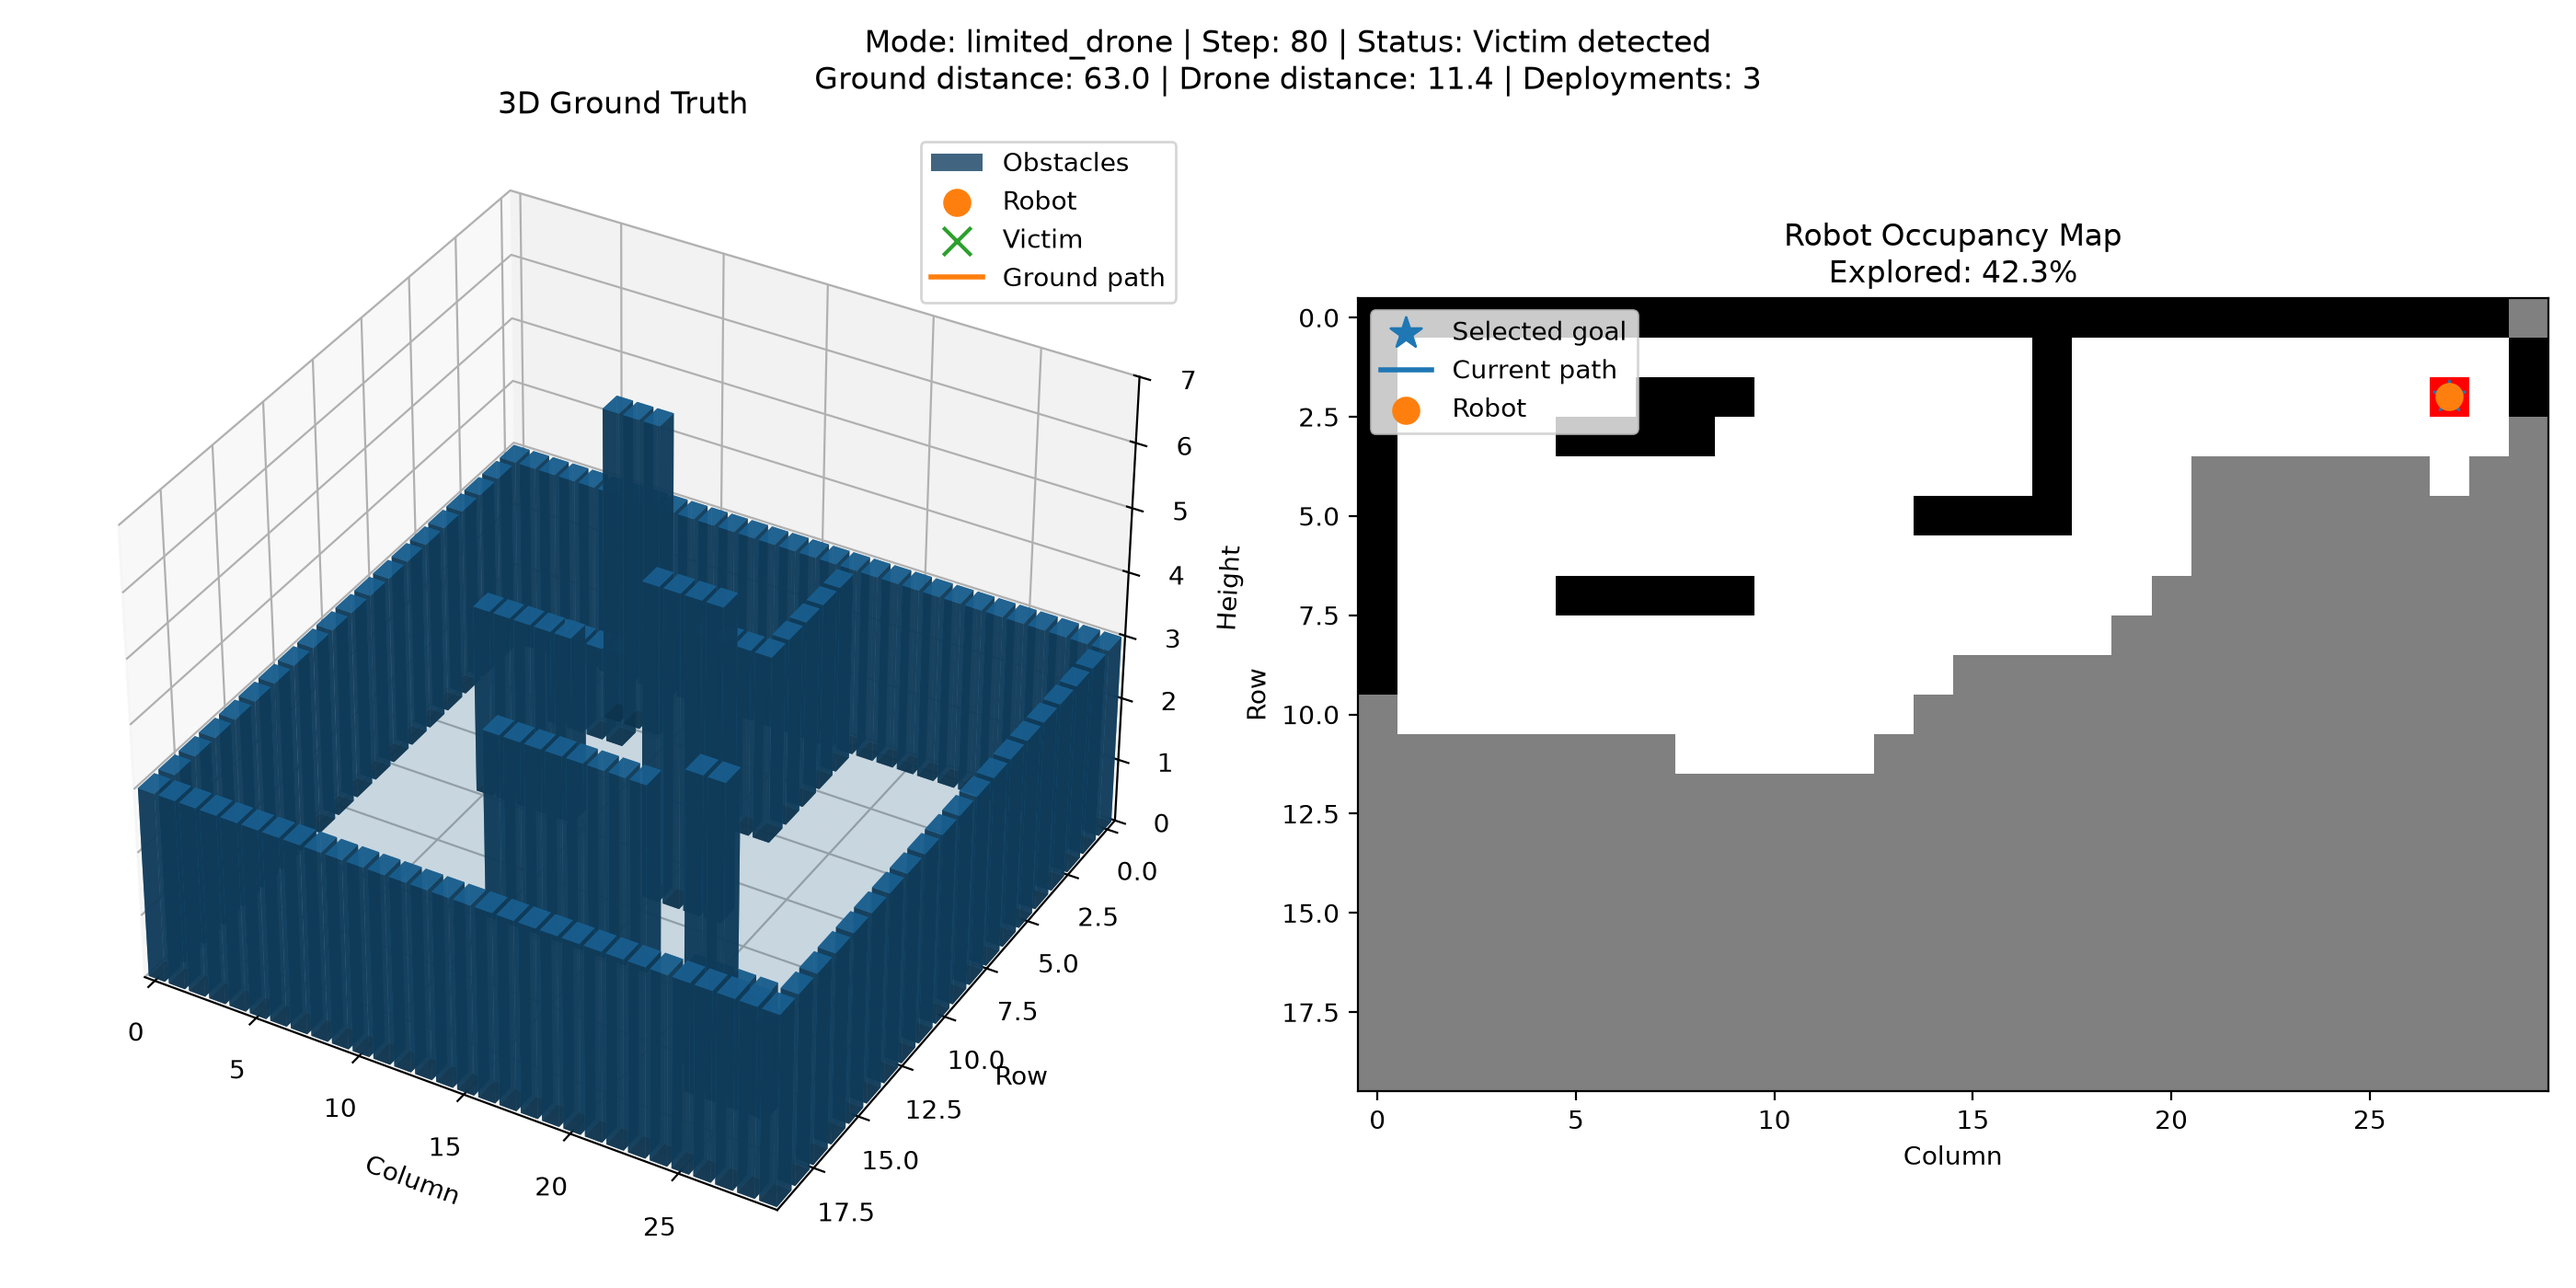
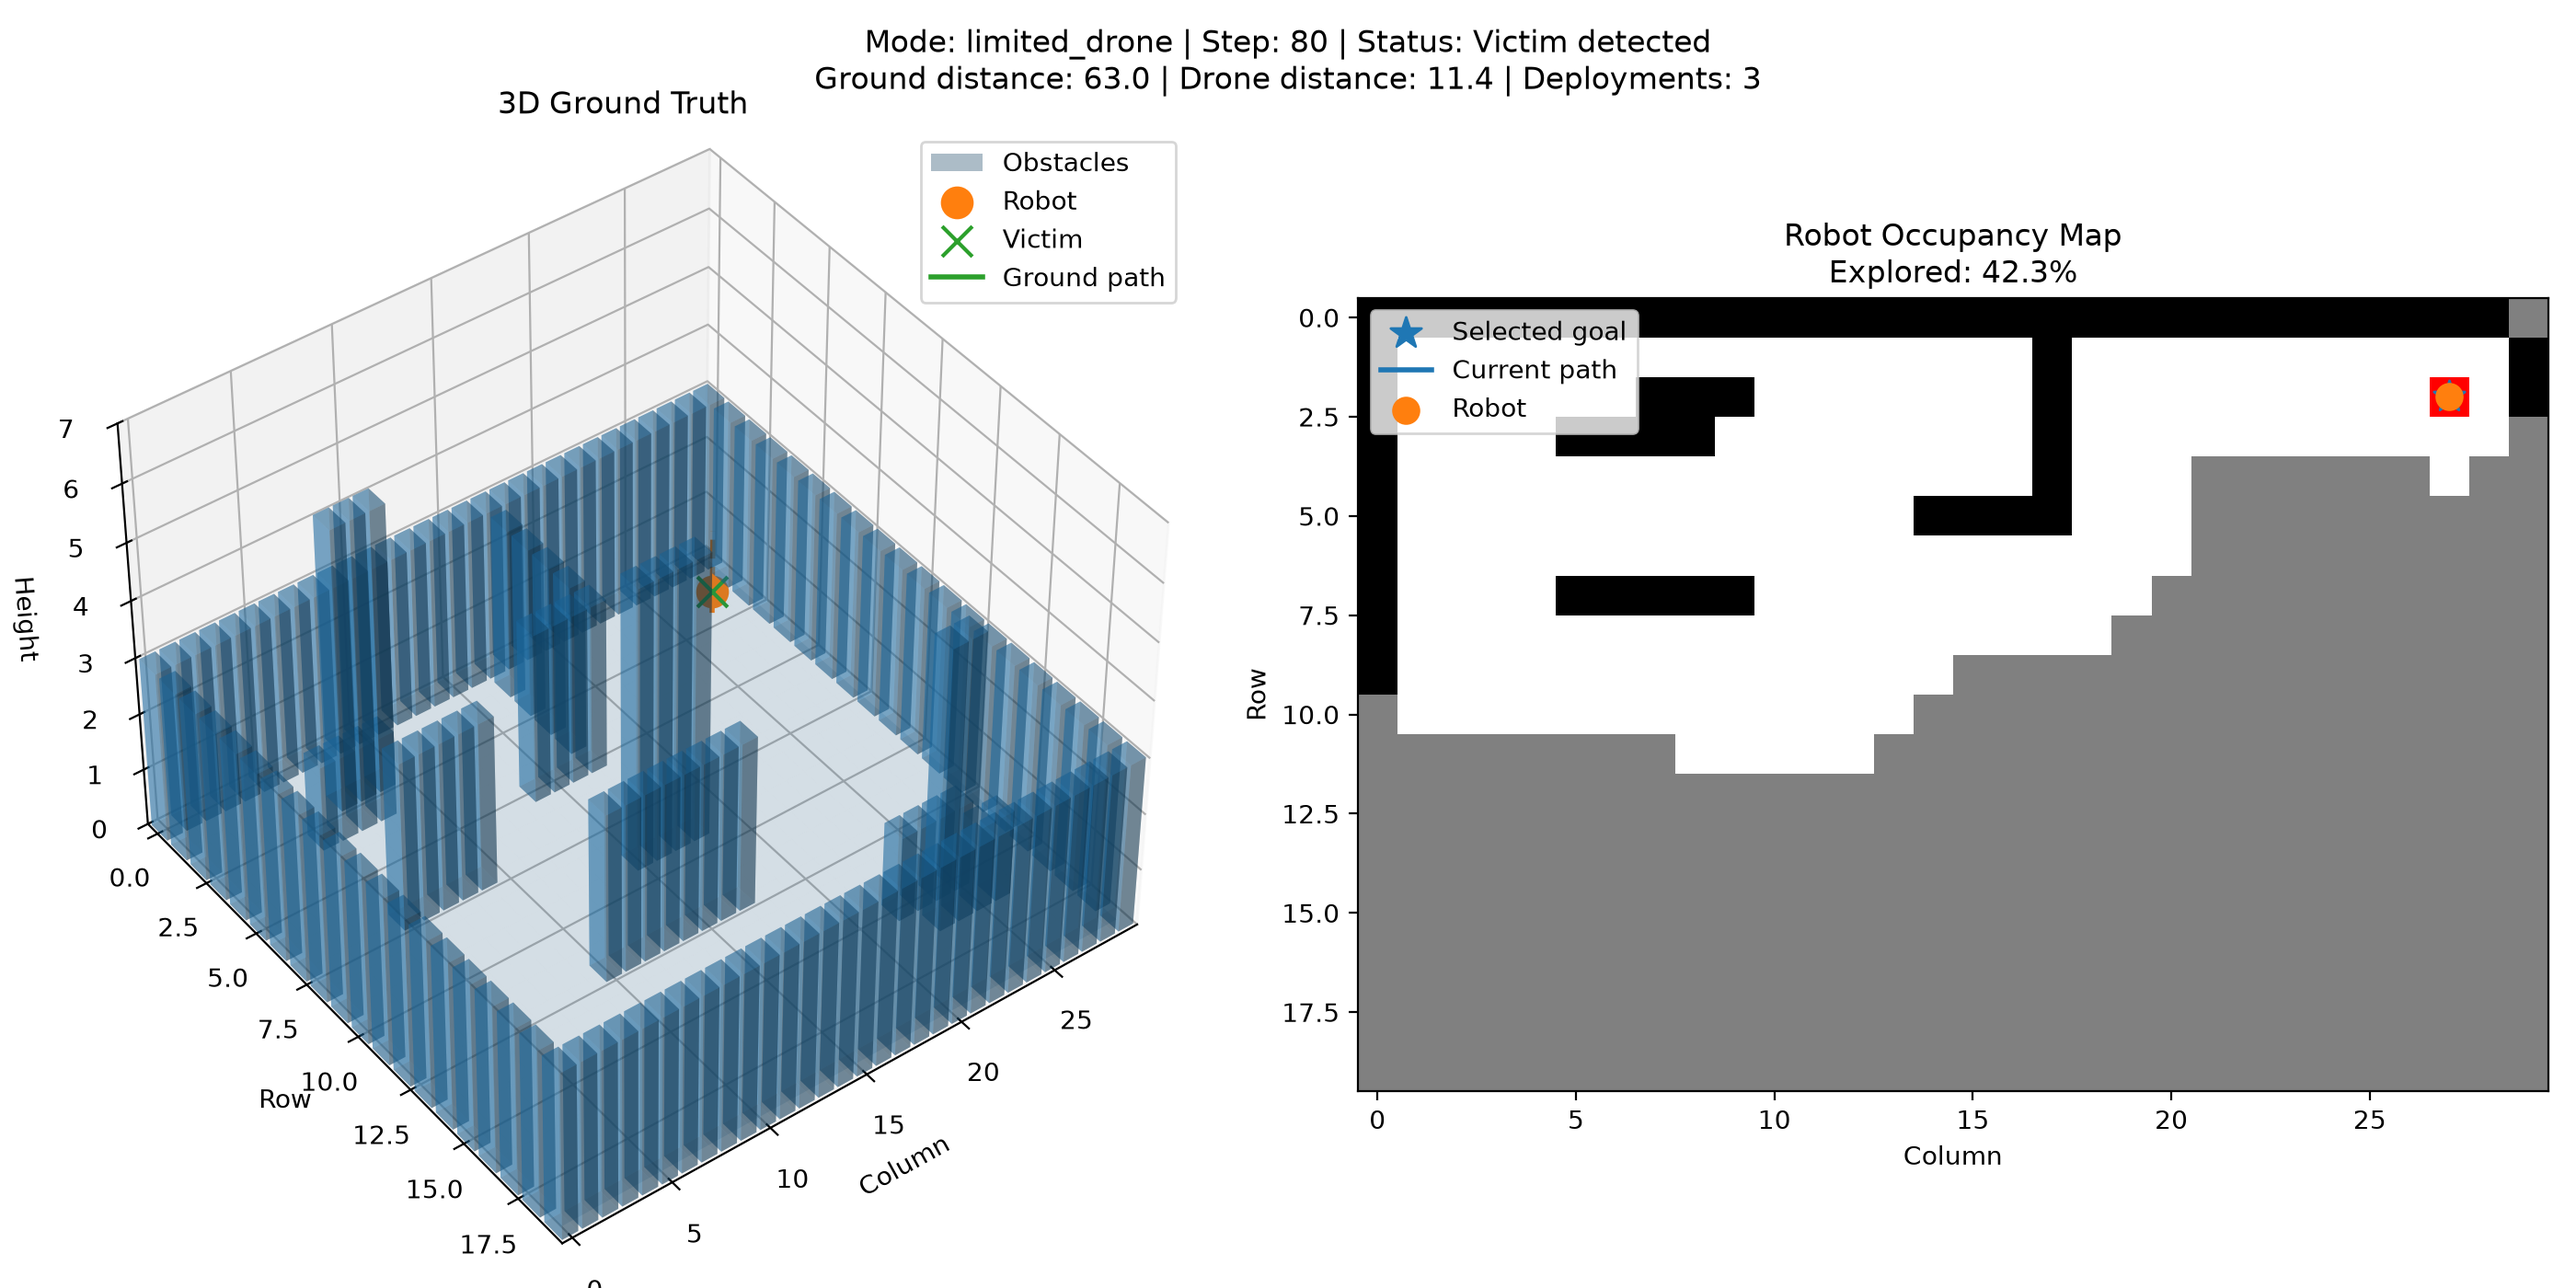
better 3d viz, experimenting

Changed region(s): [[0.0, 0.1536, 0.4661, 0.9829], [0.3418, 0.1229, 0.4039, 0.1536]]

diff --git a/main.py b/main.py
@@ -1,5 +1,7 @@
 from __future__ import annotations
+
 import os
+
 import matplotlib.pyplot as plt
 import numpy as np
 from matplotlib.colors import ListedColormap
@@ -19,6 +21,7 @@ from config import (
     LIMITED_DRONE,
     DRONE_CRUISE_ALTITUDE
 )
+
 from environment import Environment
 from exploration import find_frontiers, choose_frontier
 from mapping import OccupancyMap
@@ -28,19 +31,28 @@ from drone import Drone
 
 
 def visualize(environment, occupancy_map, robot, drone, path, frontiers, selected_goal, step_number, victim_found):
+    current_azimuth = None
+    current_elevation = None
+
+    if len(plt.gcf().axes) > 0:
+        old_axis = plt.gcf().axes[0]
+
+        if hasattr(old_axis, "azim"):
+            current_azimuth = old_axis.azim
+            current_elevation = old_axis.elev
+
     plt.clf()
 
     robot_row, robot_col = robot.position
+    rows, cols = environment.grid.shape
 
     # ground truth
     true_world_plot = plt.subplot(1, 2, 1, projection="3d")
 
-    rows, cols = environment.grid.shape
-
     floor_x, floor_y = np.meshgrid(np.arange(cols), np.arange(rows))
     floor_z = np.zeros_like(floor_x, dtype=float)
 
-    true_world_plot.plot_surface(floor_x, floor_y, floor_z, alpha=0.2)
+    true_world_plot.plot_surface(floor_x, floor_y, floor_z, alpha=0.15)
 
     obstacle_rows, obstacle_cols = np.where(environment.height_map > 0)
 
@@ -54,17 +66,26 @@ def visualize(environment, occupancy_map, robot, drone, path, frontiers, selecte
             0.8,
             0.8,
             obstacle_heights,
-            alpha=0.8,
+            alpha=0.35,
             label="Obstacles"
         )
 
     true_world_plot.scatter(
         robot_col,
         robot_row,
-        0.2,
+        0.4,
         marker="o",
-        s=100,
+        s=140,
+        depthshade=False,
         label="Robot"
+    )
+
+    true_world_plot.plot(
+        [robot_col, robot_col],
+        [robot_row, robot_row],
+        [0, 1.5],
+        linestyle="--",
+        linewidth=2
     )
 
     victim_row, victim_col = environment.victim_position
@@ -72,9 +93,10 @@ def visualize(environment, occupancy_map, robot, drone, path, frontiers, selecte
     true_world_plot.scatter(
         victim_col,
         victim_row,
-        0.2,
+        0.4,
         marker="x",
-        s=120,
+        s=140,
+        depthshade=False,
         label="Victim"
     )
 
@@ -86,7 +108,8 @@ def visualize(environment, occupancy_map, robot, drone, path, frontiers, selecte
             drone_row,
             drone_altitude,
             marker="^",
-            s=120,
+            s=140,
+            depthshade=False,
             label=f"Drone z={drone_altitude:.1f}"
         )
 
@@ -105,6 +128,7 @@ def visualize(environment, occupancy_map, robot, drone, path, frontiers, selecte
 
         if len(drone.forward_obstacles) > 0:
             obstacle_array = np.array(drone.forward_obstacles)
+
             detection_heights = environment.height_map[
                 obstacle_array[:, 0],
                 obstacle_array[:, 1]
@@ -113,9 +137,10 @@ def visualize(environment, occupancy_map, robot, drone, path, frontiers, selecte
             true_world_plot.scatter(
                 obstacle_array[:, 1],
                 obstacle_array[:, 0],
-                detection_heights,
+                detection_heights + 0.2,
                 marker="s",
-                s=70,
+                s=90,
+                depthshade=False,
                 label="Forward detections"
             )
 
@@ -143,7 +168,12 @@ def visualize(environment, occupancy_map, robot, drone, path, frontiers, selecte
     true_world_plot.set_ylabel("Row")
     true_world_plot.set_zlabel("Height")
     true_world_plot.set_title("3D Ground Truth")
-    true_world_plot.view_init(elev=35, azim=-60)
+
+    if current_azimuth is not None and current_elevation is not None:
+        true_world_plot.view_init(elev=current_elevation, azim=current_azimuth)
+    else:
+        true_world_plot.view_init(elev=35, azim=-60)
+
     true_world_plot.legend()
 
     # 2D occupancy map
@@ -301,6 +331,7 @@ def main():
     robot = GroundRobot(environment.robot_start)
     drone = Drone()
 
+    plt.ion()
     plt.figure(figsize=(14, 7))
 
     step_number = 0
@@ -314,7 +345,6 @@ def main():
 
     while step_number < MAX_SIMULATION_STEPS:
 
-        # drone gets the full simulation step while active
         if drone.active:
             drone.move_one_step(environment)
 
@@ -349,7 +379,6 @@ def main():
         if drone_cooldown > 0:
             drone_cooldown -= 1
 
-        # ground robot senses nearby cells
         occupancy_map.update_from_sensor(
             environment,
             robot.position,
@@ -358,7 +387,6 @@ def main():
 
         known_victim_position = occupancy_map.find_known_victim()
 
-        # plan directly to the victim once it is known
         if known_victim_position is not None:
             victim_found = True
 
@@ -371,7 +399,6 @@ def main():
             frontiers = []
             selected_goal = known_victim_position
 
-        # continue frontier exploration
         else:
             victim_found = False
             frontiers = find_frontiers(occupancy_map)
@@ -461,6 +488,7 @@ def main():
 
     print("Saved final visualization to:", output_file)
 
+    plt.ioff()
     plt.show()
 
 

diff --git a/config.py b/config.py
@@ -14,7 +14,7 @@ GROUND_MOVE_ENERGY = 1.0
 GROUND_ONLY = "ground_only"
 CONSTANT_DRONE = "constant_drone"
 LIMITED_DRONE = "limited_drone"
-EXPERIMENT_MODE = LIMITED_DRONE
+EXPERIMENT_MODE = GROUND_ONLY
 
 # drone deployment
 DRONE_DEPLOY_STEP = 10
